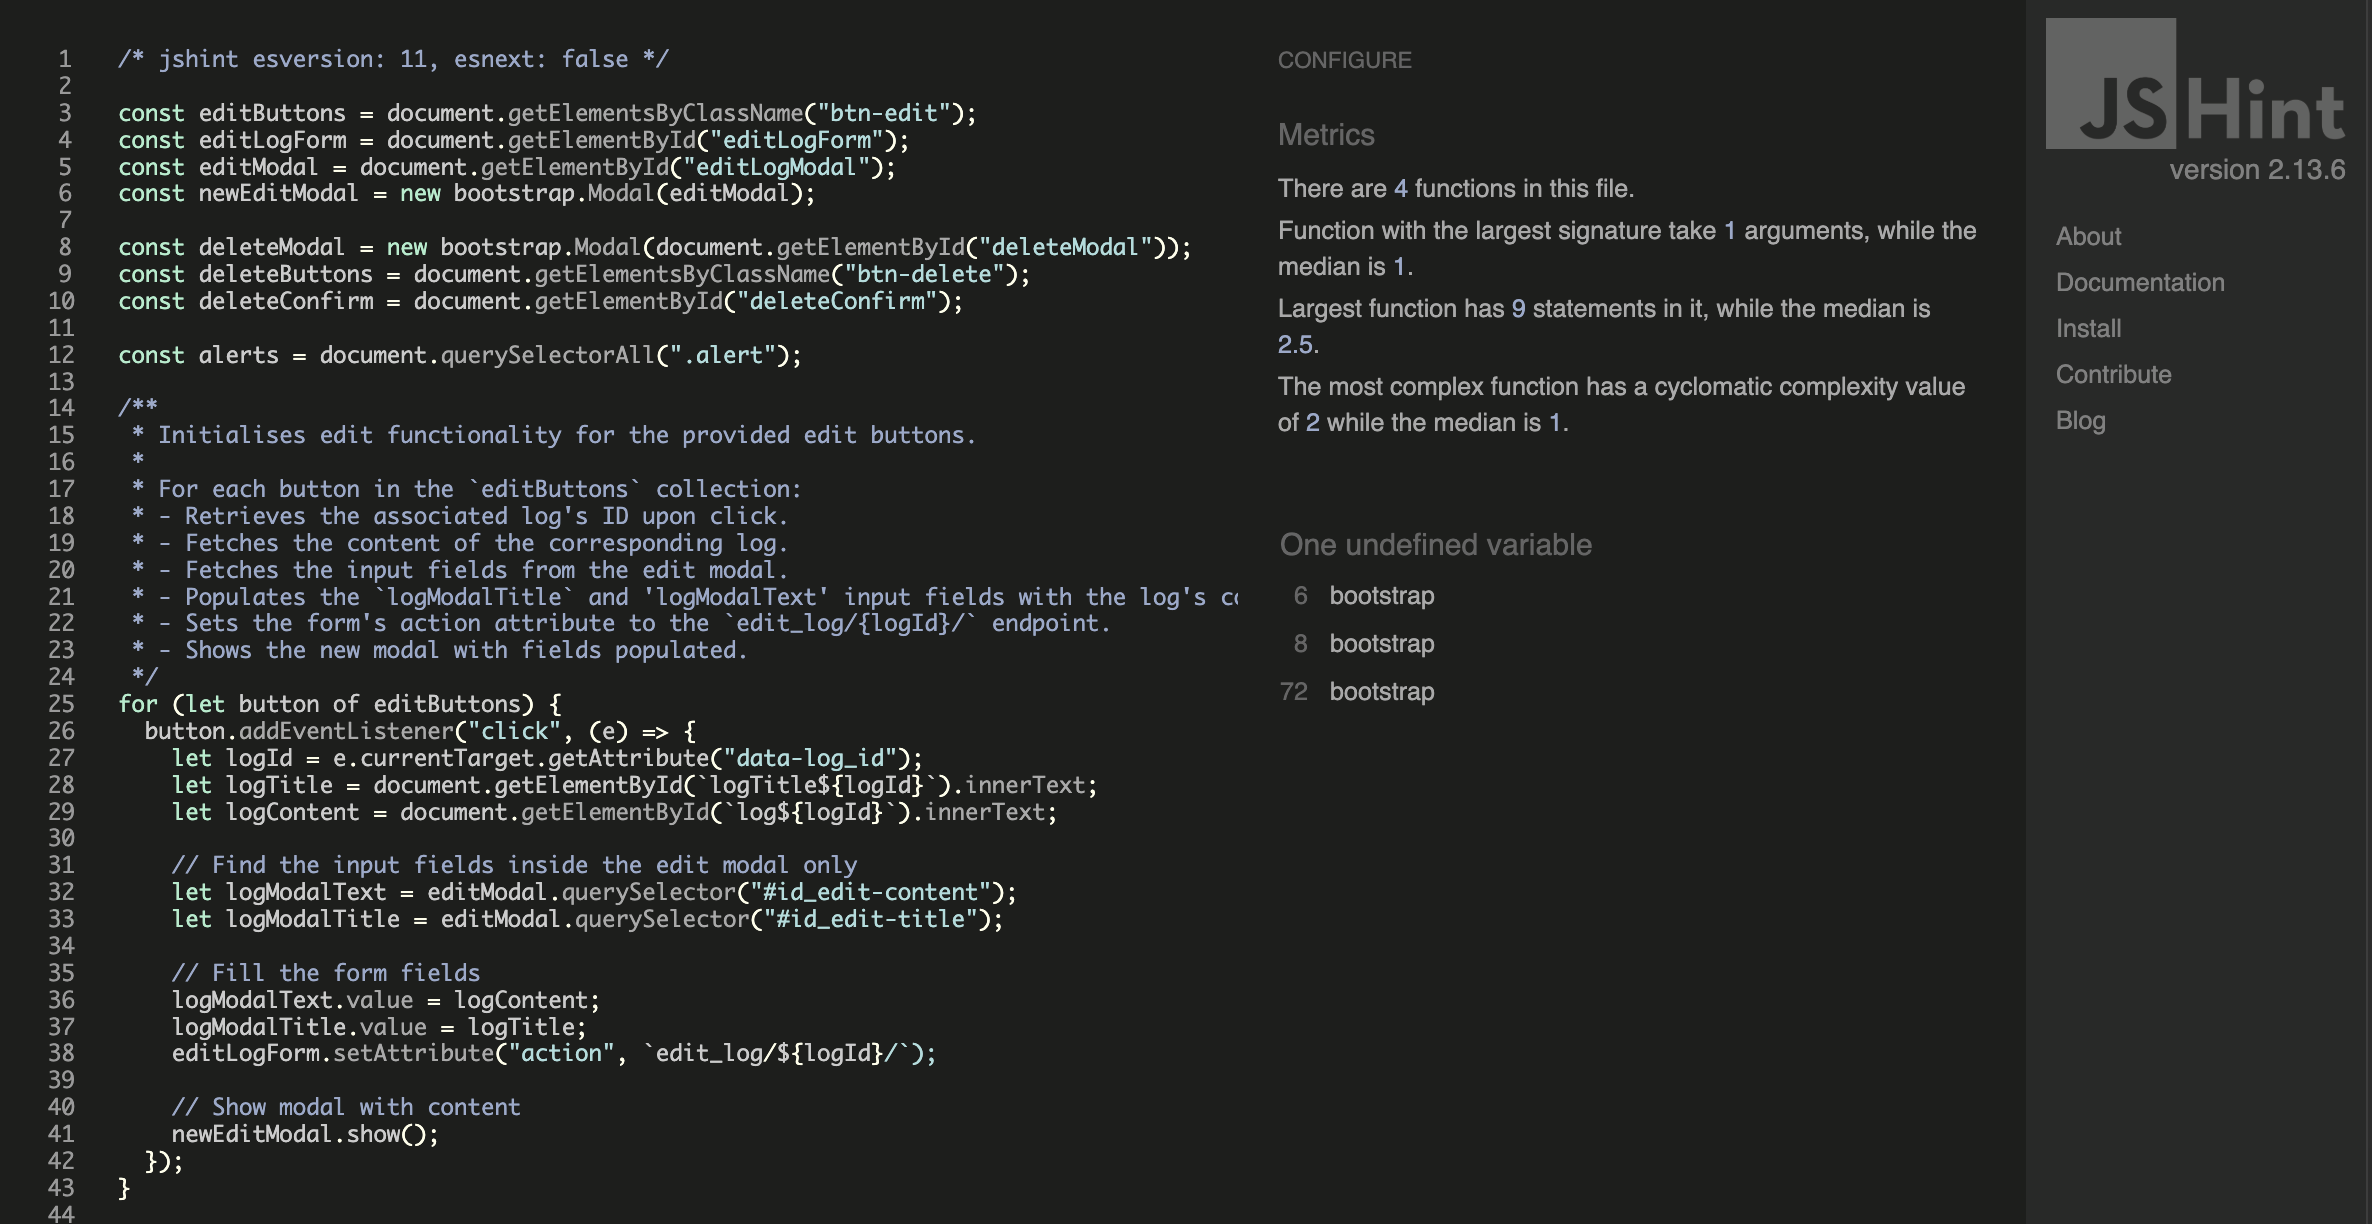
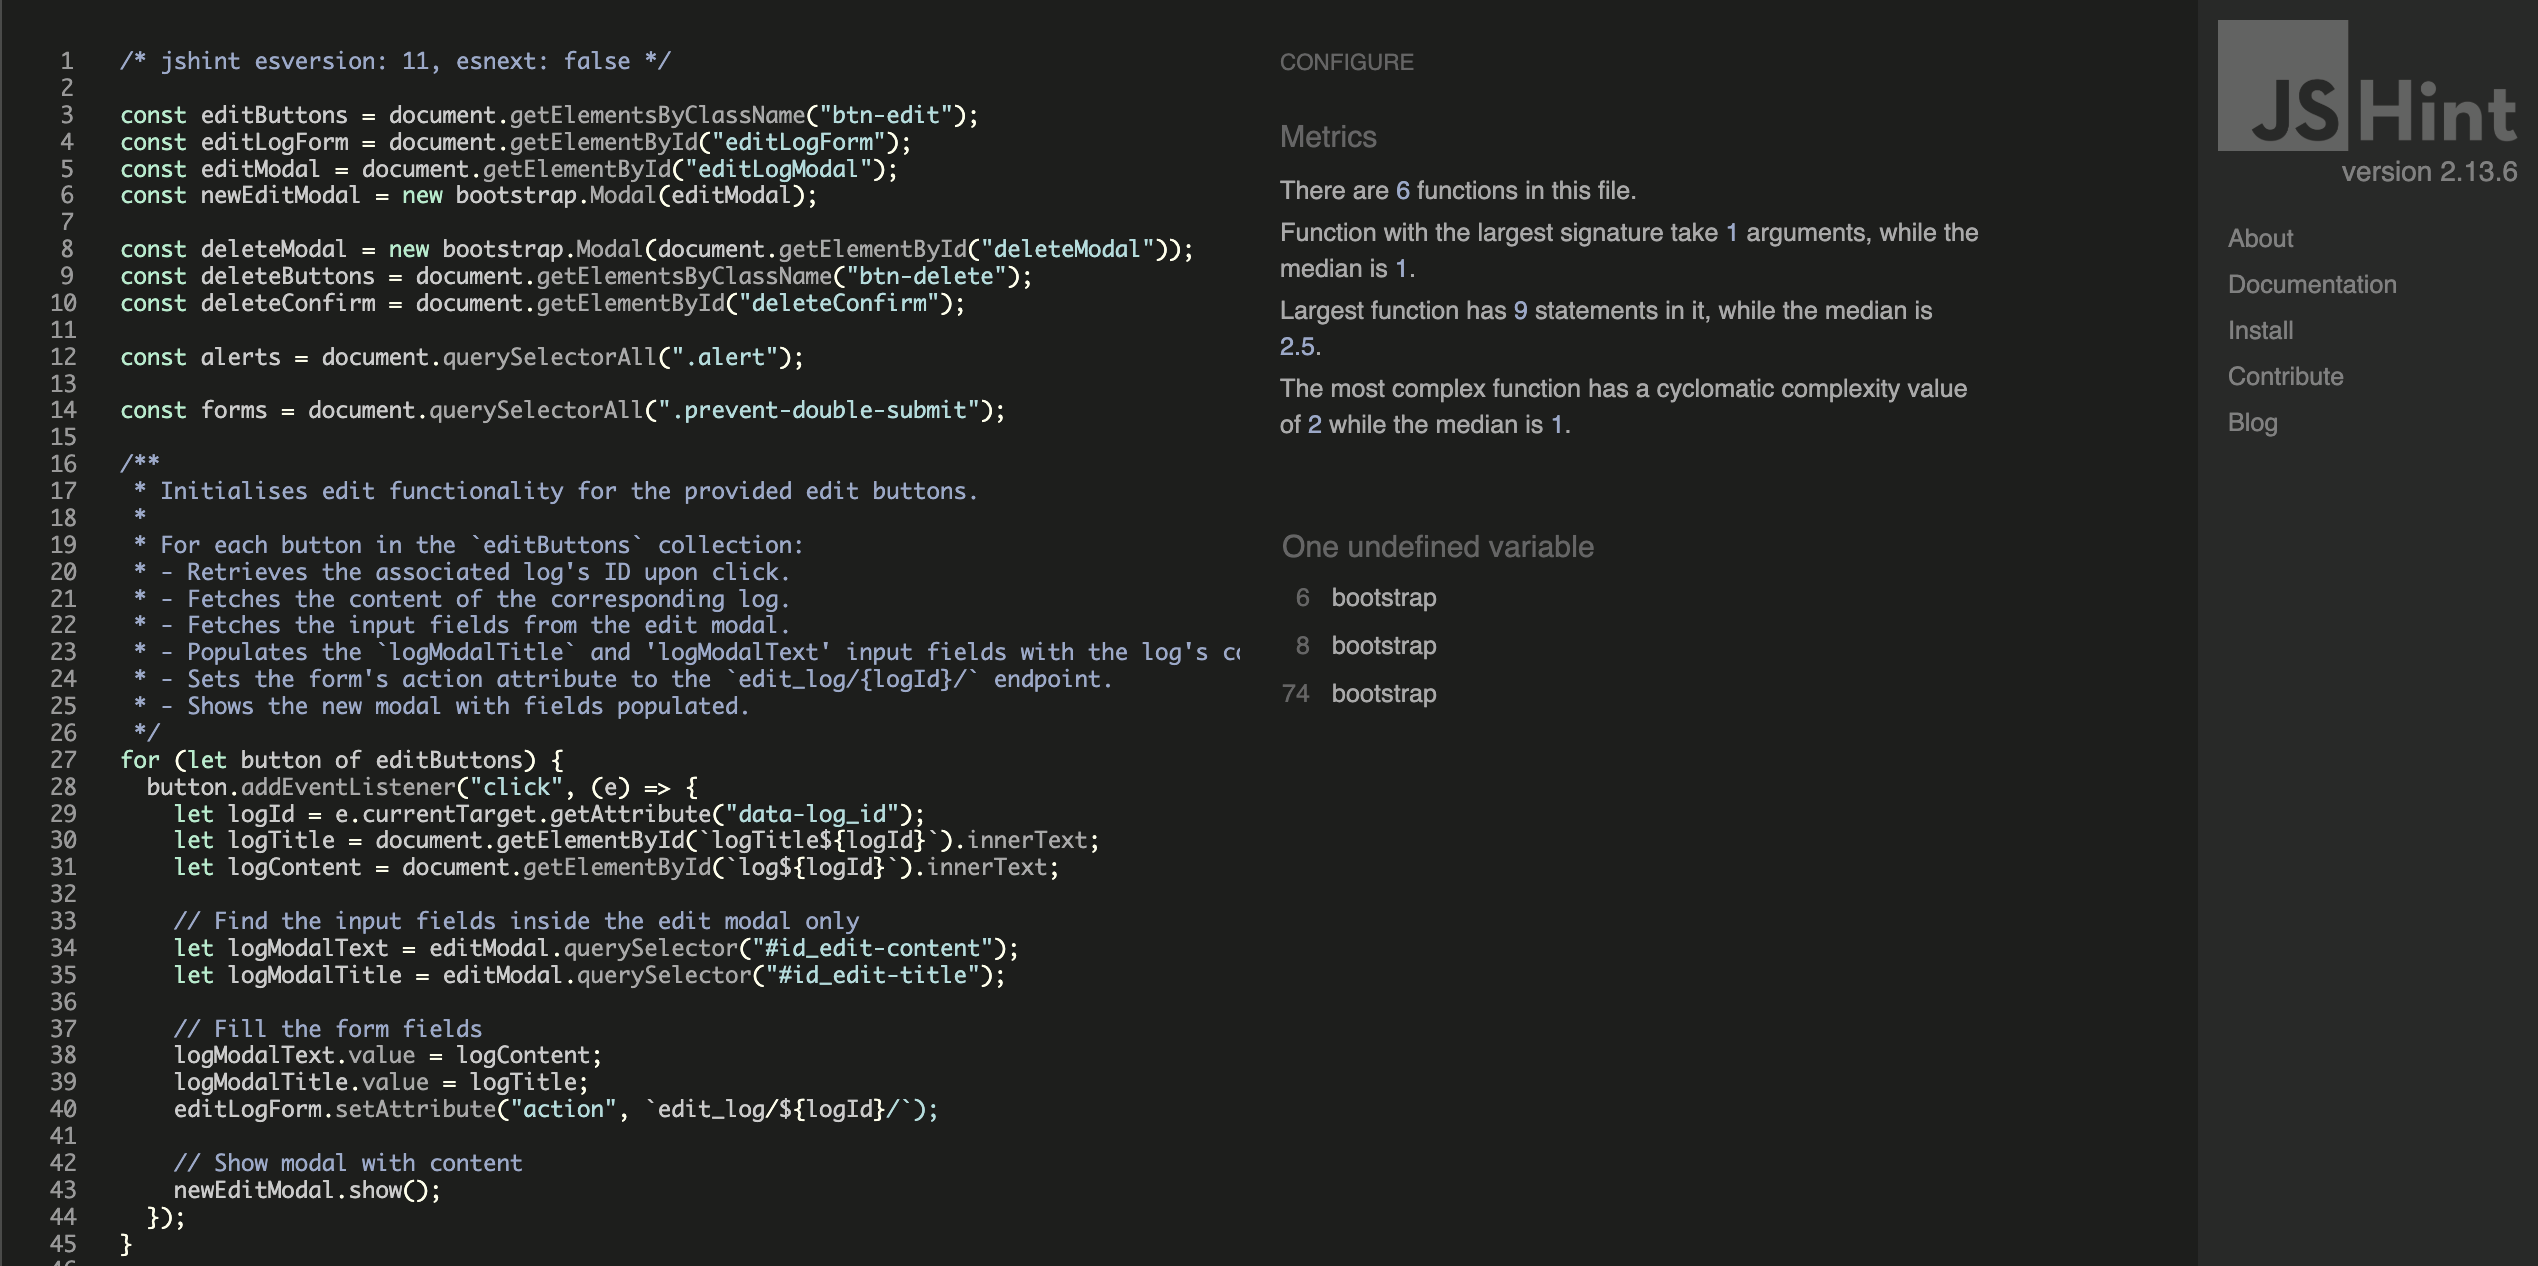
Add bugs section to TESTING.md

diff --git a/TESTING.md b/TESTING.md
@@ -194,20 +194,6 @@ Below are the results from the full coverage report on my application that I've 
 
 ## Bugs
 
-⚠ INSTRUCTIONS ⚠
-
-Nobody likes bugs,... except the assessors! Projects seem more suspicious if a student doesn't properly track their bugs. If you're about to submit your project without any bugs listed below, you should ask yourself why you're doing this course in the first place, if you're able to build this entire application without running into any bugs. The best thing you can do for any project is to document your bugs! Not only does it show the true stages of development, but think of it as breadcrumbs for yourself in the future, should you encounter the same/similar bug again, it acts as a gentle reminder on what you did to fix the bug.
-
-If/when you encounter bugs during the development stages of your project, you should document them here, ideally with a screenshot explaining what the issue was, and what you did to fix the bug.
-
-Alternatively, an improved way to manage bugs is to use the built-in **[Issues](https://www.github.com/AlexThoma5/one_percent/issues)** tracker on your GitHub repository. This can be found at the top of your repository, the tab called "Issues".
-
-If using the Issues tracker for bug management, you can simplify the documentation process for testing. Issues allow you to directly paste screenshots into the issue page without having to first save the screenshot locally. You can add labels to your issues (e.g. `bug`), assign yourself as the owner, and add comments/updates as you progress with fixing the issue(s). Once you've solved the issue/bug, you should then "Close" it.
-
-When showcasing your bug tracking for assessment, you can use the following examples below.
-
-⚠ --- END --- ⚠
-
 ### Fixed Bugs
 
 [![GitHub issue custom search](https://img.shields.io/github/issues-search/AlexThoma5/one_percent?query=is%3Aissue%20is%3Aclosed%20label%3Abug&label=Fixed%20Bugs&color=green)](https://www.github.com/AlexThoma5/one_percent/issues?q=is%3Aissue+is%3Aclosed+label%3Abug)
@@ -218,30 +204,18 @@ All previously closed/fixed bugs can be tracked [here](https://www.github.com/Al
 
 ![screenshot](documentation/bugs/gh-issues-closed.png)
 
+
 ### Unfixed Bugs
 
-⚠ INSTRUCTIONS ⚠
-
-You will need to mention any unfixed bugs and why they are not fixed upon submission of your project. This section should include shortcomings of the frameworks or technologies used. Although time can be a big variable to consider, paucity of time and difficulty understanding implementation is not a valid reason to leave bugs unfixed. Where possible, you must fix all outstanding bugs, unless outside of your control.
-
-If you've identified any unfixed bugs, no matter how small, be sure to list them here! It's better to be honest and list them, because if it's not documented and an assessor finds the issue, they need to know whether or not you're aware of them as well, and why you've not corrected/fixed them.
-
-⚠ --- END --- ⚠
-
-[![GitHub issue custom search](https://img.shields.io/github/issues-search/AlexThoma5/one_percent?query=is%3Aissue%2Bis%3Aopen%2Blabel%3Abug&label=Unfixed%20Bugs&color=red)](https://www.github.com/AlexThoma5/one_percent/issues?q=is%3Aissue+is%3Aopen+label%3Abug)
+[![GitHub issue custom search](https://img.shields.io/github/issues-search/AlexThoma5/one_percent?query=is%3Aissue%20is%3Aopen%20label%3Abug&label=Unfixed%20Bugs&color=red)](https://www.github.com/AlexThoma5/one_percent/issues?q=is%3Aissue+is%3Aopen+label%3Abug)
 
 Any remaining open issues can be tracked [here](https://www.github.com/AlexThoma5/one_percent/issues?q=is%3Aissue+is%3Aopen+label%3Abug).
 
-![screenshot](documentation/bugs/gh-issues-open.png)
+> [!IMPORTANT]  
+> There are no remaining bugs that I am aware of, though, even after thorough testing, I cannot rule out the possibility.
 
 ### Known Issues
 
 | Issue | Screenshot |
 | --- | --- |
 | The project is designed to be responsive from `375px` and upwards, in line with the material taught on the course LMS. Minor layout inconsistencies may occur on extra-wide (e.g. 4k/8k monitors), or smart-display devices (e.g. Nest Hub, Smart Watches, Gameboy Color, etc.), as these resolutions are outside the project’s scope, as taught by Code Institute. | ![screenshot](documentation/issues/poor-responsiveness.png) |
-| When validating HTML with a semantic `<section>` element, the validator warns about lacking a header `h2-h6`. This is acceptable. | ![screenshot](documentation/issues/section-header.png) |
-| Validation errors on "signup.html" coming from the Django Allauth package. | ![screenshot](documentation/issues/allauth.png) |
-
-> [!IMPORTANT]  
-> There are no remaining bugs that I am aware of, though, even after thorough testing, I cannot rule out the possibility.
-
